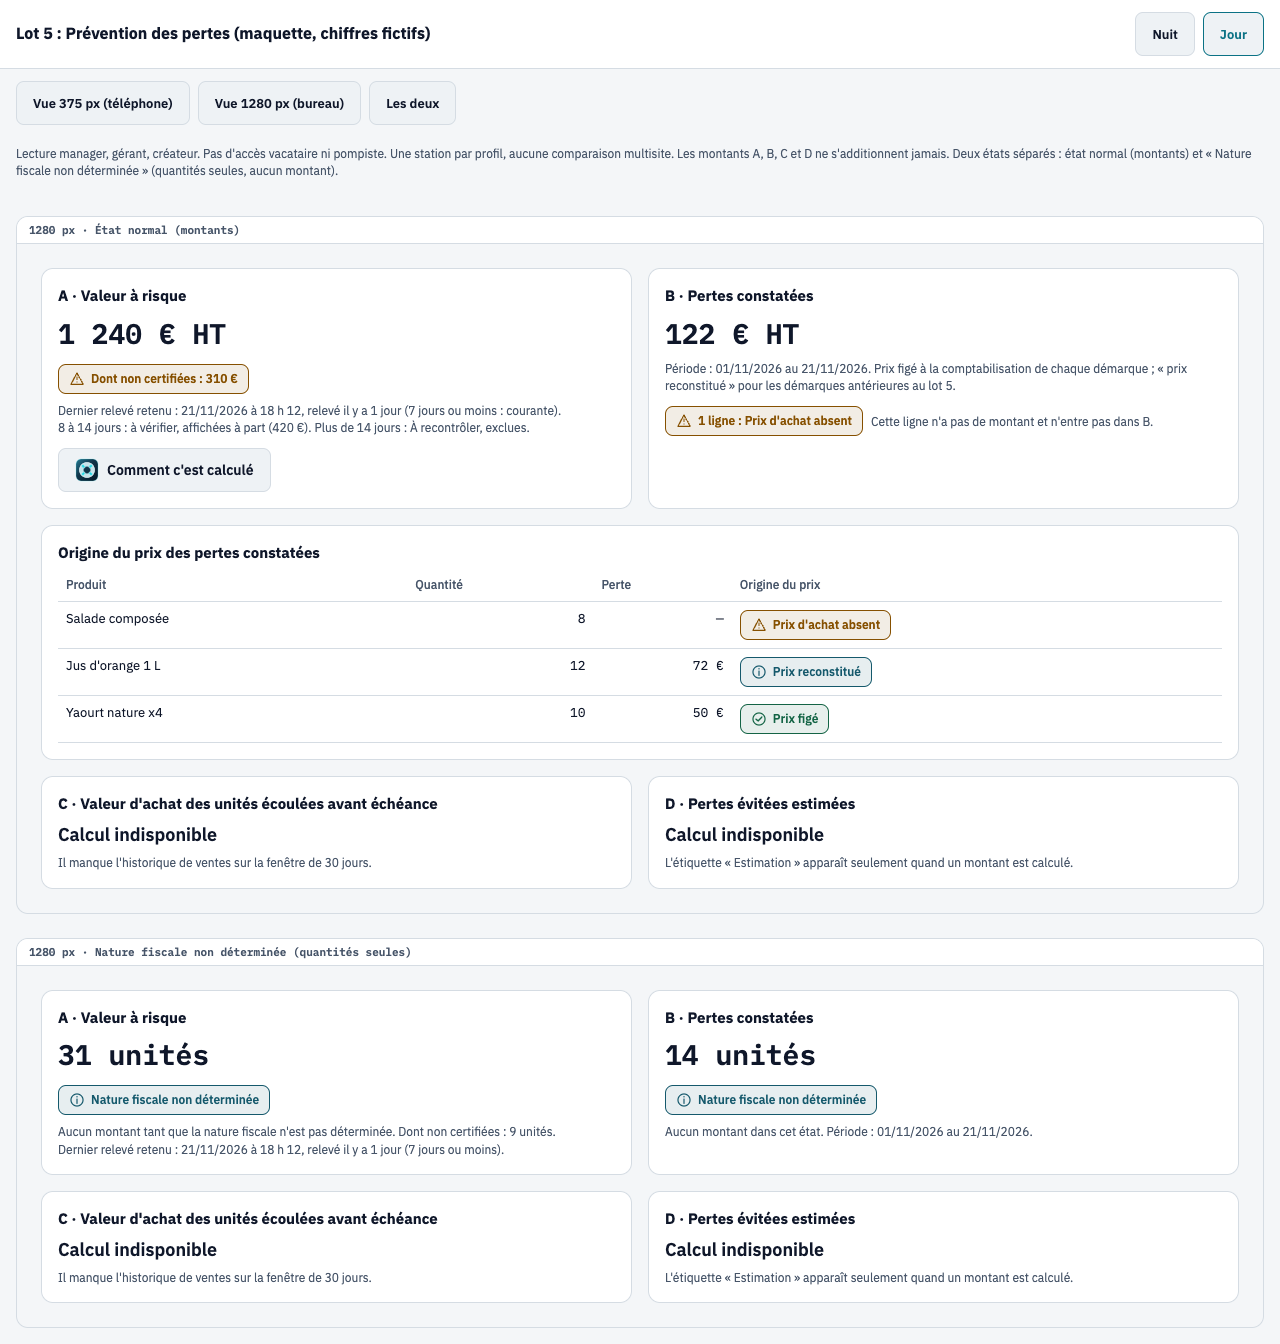
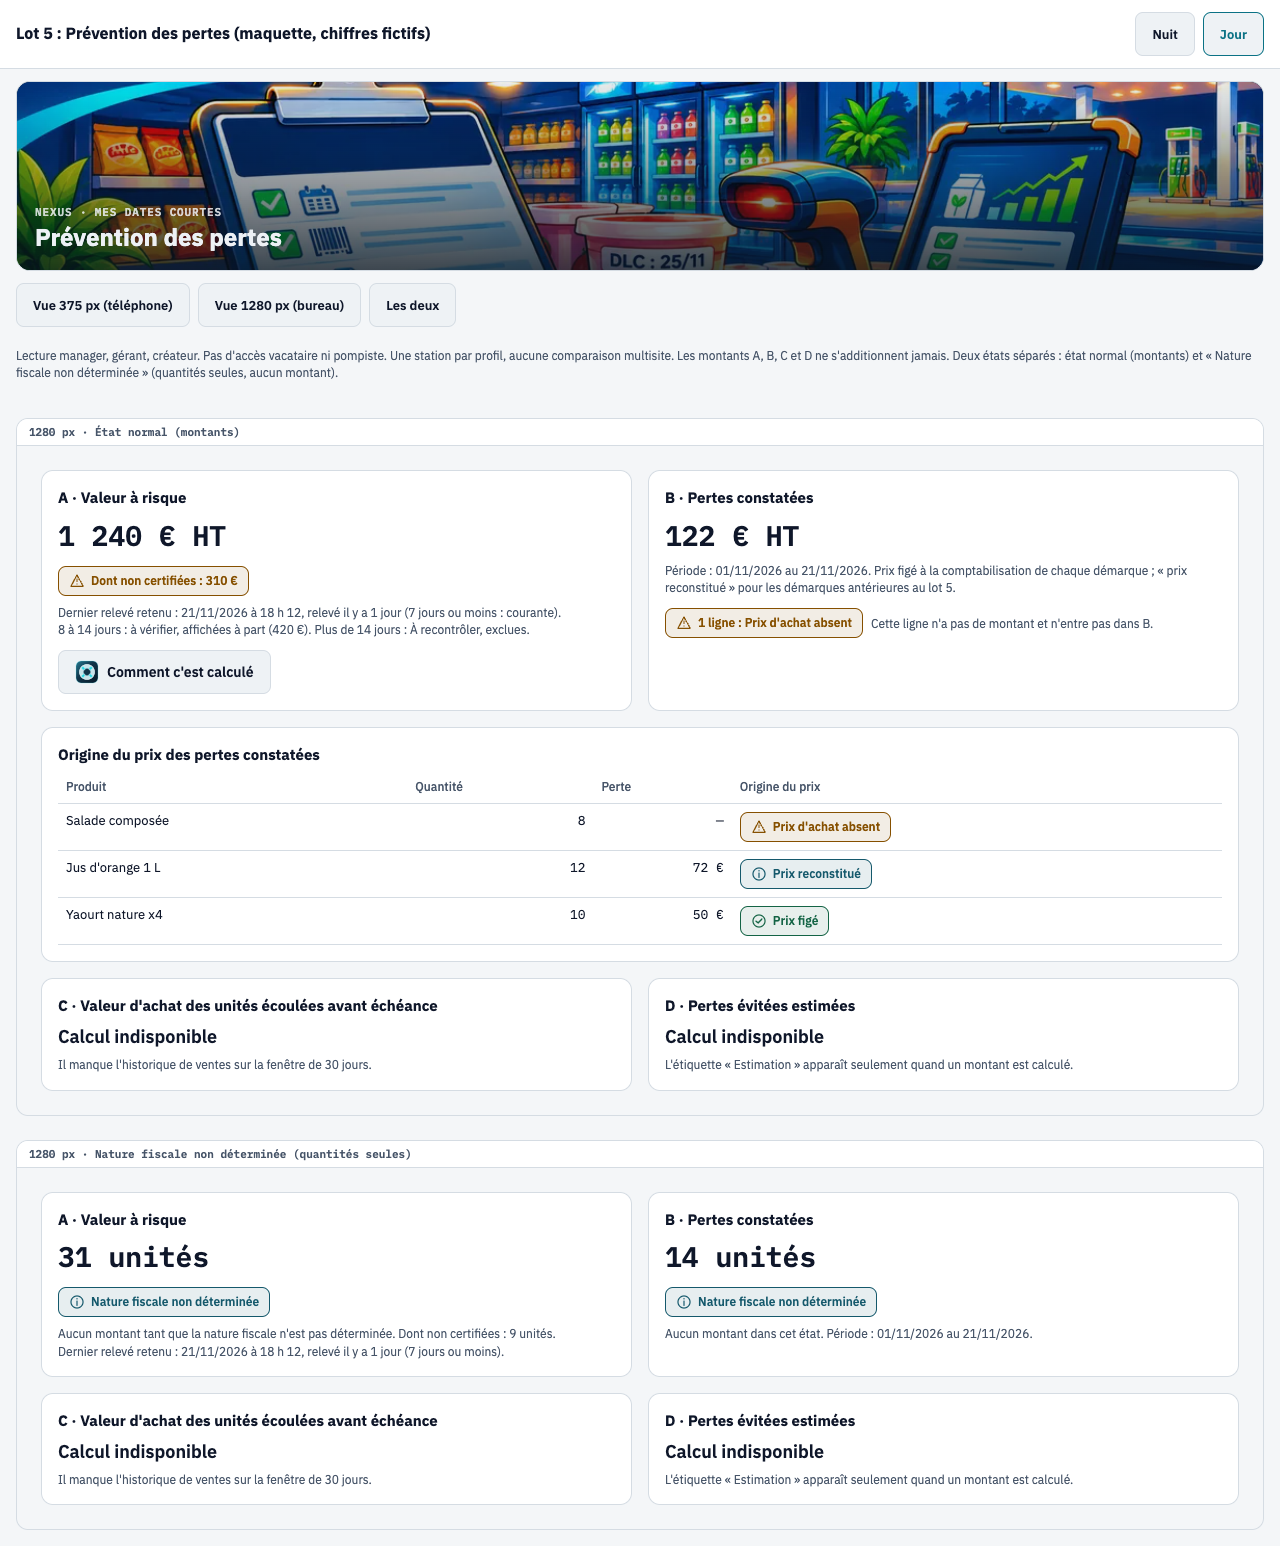
Maquettes Dates courtes : bannière d'en-tête (lots 2 et 5), captures Jour/Nuit 375/1280

diff --git a/outils/maquettes/dates-courtes/lot-5-prevention-pertes.html b/outils/maquettes/dates-courtes/lot-5-prevention-pertes.html
@@ -5,6 +5,7 @@
 <script src="../../../nexus-badge-etat.js"></script><script src="../../../nexus-icones.js"></script>
 <link rel="stylesheet" href="maquettes.css"></head><body>
 <div class="bandeau"><h1>Lot 5 : Prévention des pertes (maquette, chiffres fictifs)</h1><div class="reglage" role="group" aria-label="Thème"></div></div>
+<header class="header hero"><picture><source media="(max-width:599px)" srcset="../../../assets/telephone/dates-courtes-telephone.webp"><img class="entete" src="../../../assets/dates-courtes/dates-courtes-banniere-1200.webp" srcset="../../../assets/dates-courtes/dates-courtes-banniere-800.webp 800w, ../../../assets/dates-courtes/dates-courtes-banniere-1200.webp 1200w, ../../../assets/dates-courtes/dates-courtes-banniere-1600.webp 1600w" sizes="(min-width:1100px) 1100px, 100vw" width="1600" height="533" alt=""></picture><div class="header-texte"><div class="eyebrow">NEXUS · Mes dates courtes</div><h2 class="title">Prévention des pertes</h2></div></header>
 <nav class="liens" aria-label="Largeur"><a href="lot-5-prevention-pertes.html?largeur=375">Vue 375 px (téléphone)</a><a href="lot-5-prevention-pertes.html?largeur=1280">Vue 1280 px (bureau)</a><a href="lot-5-prevention-pertes.html">Les deux</a></nav>
 <p class="note">Lecture manager, gérant, créateur. Pas d'accès vacataire ni pompiste. Une station par profil, aucune comparaison multisite. Les montants A, B, C et D ne s'additionnent jamais. Deux états séparés : état normal (montants) et « Nature fiscale non déterminée » (quantités seules, aucun montant).</p>
 <div class="vues">

diff --git a/outils/maquettes/dates-courtes/maquettes.css b/outils/maquettes/dates-courtes/maquettes.css
@@ -43,3 +43,15 @@ th,td{padding:8px;border-bottom:1px solid var(--hairline);text-align:left;vertic
 th{color:var(--text-mid);font-weight:500;font-size:12px}
 td.n{font-family:var(--mono);text-align:right}
 .sr{position:absolute;left:-9999px}
+
+/* En-tête illustré : modèle NEXUS-Produits-v1.html (lignes 182-188). Dégradé de lisibilité en rgba littéral, repris à l'identique de Produits. */
+:root{--banniere-cadrage:60% 50%}
+.header{position:relative;margin:12px 16px 0;border-radius:14px;overflow:hidden;border:1px solid var(--hairline);min-height:190px;display:flex;align-items:flex-end;background:#0D202E}
+.header picture{position:absolute;inset:0;display:block}
+.header img.entete{position:absolute;inset:0;width:100%;height:100%;object-fit:cover;object-position:var(--banniere-cadrage)}
+.header::after{content:'';position:absolute;inset:0;background:linear-gradient(0deg,rgba(7,19,30,.86) 0%,rgba(7,19,30,.55) 45%,rgba(7,19,30,.15) 100%)}
+:root[data-theme="jour"] .header::after{background:linear-gradient(0deg,rgba(7,19,30,.78) 0%,rgba(7,19,30,.45) 45%,rgba(7,19,30,.08) 100%)}
+@media (max-width:599px){.header{min-height:210px}.header::after,:root[data-theme="jour"] .header::after{background:linear-gradient(0deg,rgba(7,19,30,.94) 0%,rgba(7,19,30,.82) 50%,rgba(7,19,30,.5) 100%)}}
+.header-texte{position:relative;z-index:1;padding:18px;width:100%;color:#EDF1F5}
+.header-texte .eyebrow{font:600 11px var(--mono);letter-spacing:.08em;text-transform:uppercase;opacity:.85}
+.header-texte .title{margin:4px 0 0;font:700 24px/1.2 var(--sans)}

diff --git a/outils/maquettes/dates-courtes/lot-2-saisie.html b/outils/maquettes/dates-courtes/lot-2-saisie.html
@@ -5,6 +5,7 @@
 <script src="../../../nexus-badge-etat.js"></script><script src="../../../nexus-icones.js"></script>
 <link rel="stylesheet" href="maquettes.css"></head><body>
 <div class="bandeau"><h1>Lot 2 : Contrôler les dates courtes (maquette, données fictives)</h1><div class="reglage" role="group" aria-label="Thème"></div></div>
+<header class="header hero"><picture><source media="(max-width:599px)" srcset="../../../assets/telephone/dates-courtes-telephone.webp"><img class="entete" src="../../../assets/dates-courtes/dates-courtes-banniere-1200.webp" srcset="../../../assets/dates-courtes/dates-courtes-banniere-800.webp 800w, ../../../assets/dates-courtes/dates-courtes-banniere-1200.webp 1200w, ../../../assets/dates-courtes/dates-courtes-banniere-1600.webp 1600w" sizes="(min-width:1100px) 1100px, 100vw" width="1600" height="533" alt=""></picture><div class="header-texte"><div class="eyebrow">NEXUS · Mes dates courtes</div><h2 class="title">Contrôler les dates courtes</h2></div></header>
 <nav class="liens" aria-label="Largeur"><a href="lot-2-saisie.html?largeur=375">Vue 375 px (téléphone)</a><a href="lot-2-saisie.html?largeur=1280">Vue 1280 px (bureau)</a><a href="lot-2-saisie.html">Les deux</a></nav>
 <p class="note">Le bouton « Terminer ma tournée » existe en 375 et en 1280. Le nom de la tournée reste visible pendant toute la saisie. Aucune écriture, aucune donnée réelle.</p>
 <div class="vues">

diff --git a/docs/dates-courtes/maquettes-captures/compte-rendu-banniere.md b/docs/dates-courtes/maquettes-captures/compte-rendu-banniere.md
@@ -1,0 +1,10 @@
+# Compte rendu : bannière Dates courtes dans les maquettes lots 2 et 5
+
+- Référentiel : NEXUS-REFERENTIEL-CONCEPTION v1.0 (skill nexus-design-experience).
+- Composants réutilisés : en-tête `header.header.hero` de NEXUS-Produits-v1.html (picture, source téléphone 599 px, img.entete 800w/1200w/1600w, `sizes`, 1600x533, alt vide car décorative), eyebrow, thème jour/nuit existant.
+- Composant nouveau : aucun côté produit. CSS d'en-tête ajouté à `maquettes.css` seulement (maquettes).
+- Fichiers : `assets/dates-courtes/dates-courtes-banniere-{800,1200,1600}.webp`, `assets/telephone/dates-courtes-telephone.webp`. Seules les deux maquettes `lot-2-saisie.html` et `lot-5-prevention-pertes.html` et `maquettes.css` sont modifiées.
+- Cadrage : `--banniere-cadrage: 60% 50%`. À 375 la source téléphone est servie (vérifié), le scanner reste visible ; le pot « DLC » est visible mais en partie sous le titre.
+- Exceptions (couleurs littérales, reprises de Produits, avec raison) : `#0D202E` (fond de repli avant chargement de l'image) et `#EDF1F5` (texte clair posé sur l'image, identique en Jour et Nuit car le fond est un dégradé sombre) ; dégradés en rgba littéraux. Le point « nexus-theme.js ABSENT » sur `maquettes.js` est sans objet (fichier JS, pas une page).
+- États traités : thème Jour et Nuit, 375 et 1280, sans débordement horizontal ; titre lisible dans les deux modes (dégradé renforcé à 375).
+- Lot 5 inchangé sur le fond : certification, « Partiellement reconstitué », « Décider une action » désactivée (lot 6). Rien sur Test ni Production.
